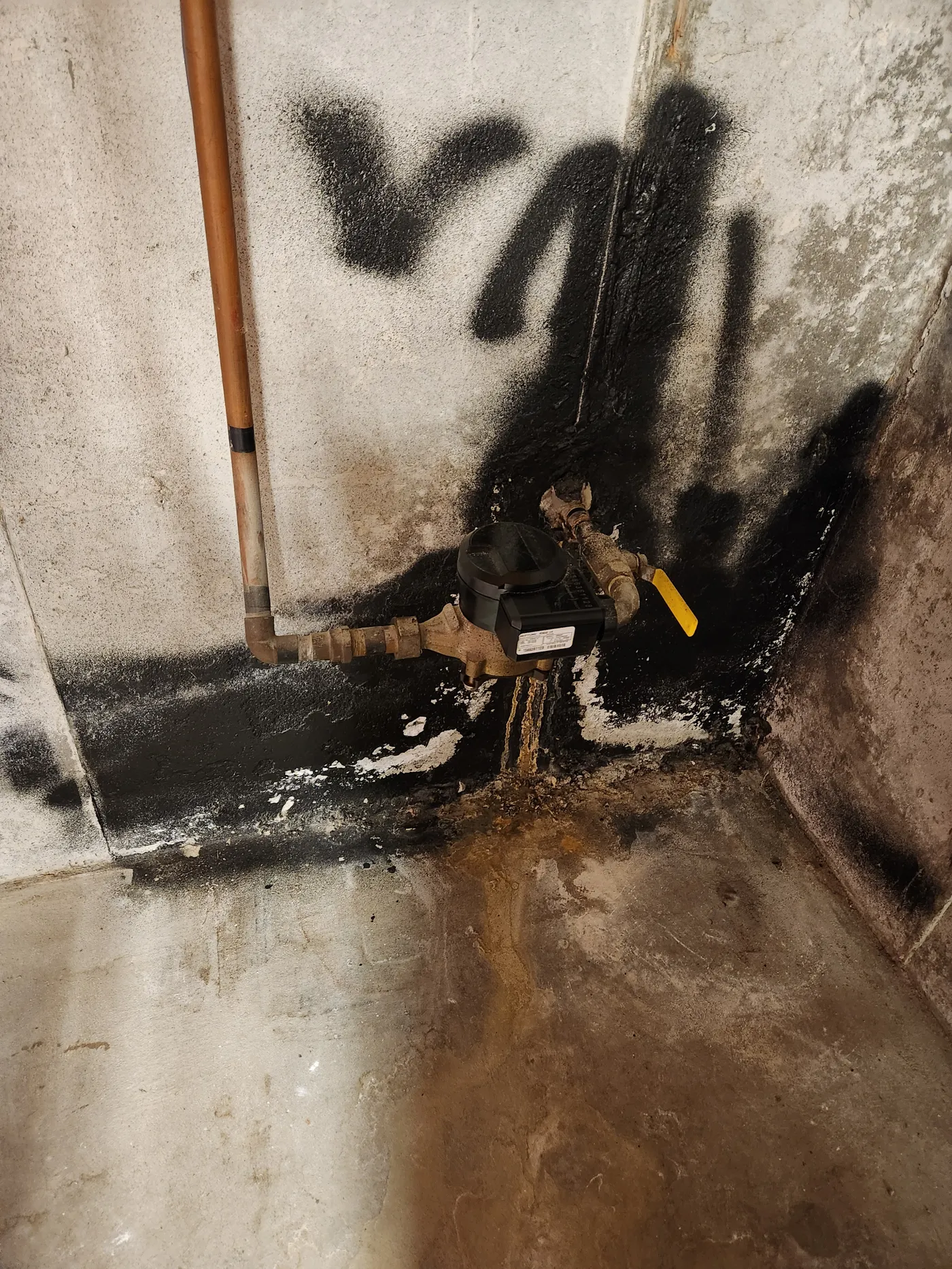
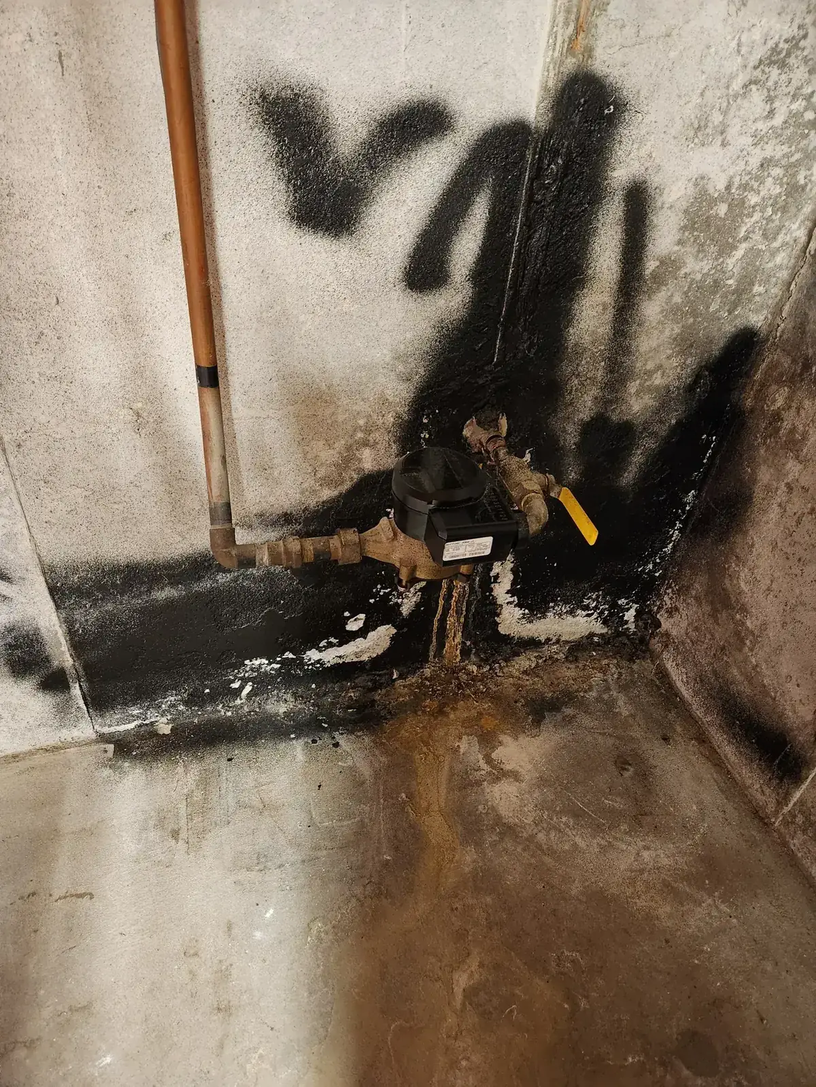
feat: Gemini SEO audit — E-E-A-T schema, HowTo for concrete repair, image squeeze
- Add founder, foundingDate, knowsAbout to base schema (Layout.astro)
- Add HowTo schema to concrete repair pages (mirror services pattern)
- Add steps frontmatter to all 6 concrete repair content files
- Fix HowTo name: "How X Works" instead of "How to X" in both templates
- Squeeze 12 oversized WebP images under 400KB (resize + recompress)
- Add "what we don't do" cross-links in about page and consultations
- Add 2 post-launch items to LAUNCH-PLAN.md (before/after verification, basement floor blog)

diff --git a/src/content/config.ts b/src/content/config.ts
@@ -48,6 +48,11 @@ const concreteRepairCollection = defineCollection({
       answer: z.string(),
     })).optional(),
     relatedServices: z.array(z.string()).optional(),
+    // HowTo schema support - optional repair steps
+    steps: z.array(z.object({
+      name: z.string(),
+      text: z.string(),
+    })).optional(),
   }),
 });
 

diff --git a/src/content/concrete-repair/basement-floor.md b/src/content/concrete-repair/basement-floor.md
@@ -13,6 +13,15 @@ faqs:
     answer: "Hardware store patching compounds sit on the surface and do not bond properly to the existing concrete. They crack and peel within months, especially if water pressure is pushing through from below. Professional repair involves grinding out the crack and filling it with self-leveling epoxy or commercial-grade rubber sealant for a permanent, flush finish."
   - question: "How much does basement floor crack repair cost?"
     answer: "Most basement floor crack repairs cost $500-$1,500 depending on length, number of cracks, and the repair method required. This is a permanent, one-time repair — far more cost-effective than repeated DIY patching or interior drainage systems."
+steps:
+  - name: "Crack Assessment"
+    text: "We evaluate each crack for width, depth, water infiltration, and displacement. We determine whether the crack is shrinkage, settlement, or water-pressure related."
+  - name: "Grinding & Preparation"
+    text: "Cracks are ground out with a diamond blade to create a clean channel that accepts the repair material. This removes loose concrete and ensures a solid bond."
+  - name: "Epoxy or Rubber Fill"
+    text: "The ground channel is filled with self-leveling epoxy for structural cracks or commercial-grade rubber sealant for expansion joints. Both create a permanent, flush finish."
+  - name: "Final Inspection"
+    text: "We verify that every crack is fully sealed, the surface is flush with the surrounding floor, and any water entry points are permanently closed."
 relatedServices:
   - "garage"
   - "driveway"

diff --git a/src/content/concrete-repair/patio.md b/src/content/concrete-repair/patio.md
@@ -13,6 +13,15 @@ faqs:
     answer: "Our repair systems are designed for New England's freeze-thaw cycles. Proper sealing protects against moisture penetration, and the overlay materials expand and contract with temperature changes."
   - question: "Can you match the color of my existing concrete?"
     answer: "We offer basic color matching to blend with your home's exterior and surrounding hardscape. The result is a clean, uniform surface rather than a patchwork appearance."
+steps:
+  - name: "Condition Assessment"
+    text: "We inspect the entire patio surface for cracks, spalling, staining, and structural issues. We identify root causes like tree roots or poor drainage before starting repairs."
+  - name: "Crack & Damage Repair"
+    text: "Cracks are cleaned and filled with epoxy resin or polymer-modified materials. Spalled areas are ground smooth and rebuilt to match the surrounding surface."
+  - name: "Surface Profiling"
+    text: "The patio surface is mechanically profiled to create an ideal bonding surface for the overlay system."
+  - name: "Overlay & Sealing"
+    text: "A durable polymer-modified overlay restores a clean, uniform surface. A protective sealer is applied to resist freeze-thaw damage and UV exposure."
 relatedServices:
   - "walkway-stairway"
   - "pool-deck"

diff --git a/src/content/concrete-repair/driveway.md b/src/content/concrete-repair/driveway.md
@@ -15,6 +15,15 @@ faqs:
     answer: "Foot traffic is typically allowed within 24 hours. Vehicle traffic should wait 3-5 days for full cure, depending on weather conditions."
   - question: "Do you repair asphalt driveways?"
     answer: "No — we work exclusively on concrete driveways. Asphalt (blacktop) requires a different repair process and different materials. If you're unsure whether your driveway is concrete or asphalt, send us a photo and we'll let you know."
+steps:
+  - name: "Surface Assessment"
+    text: "We evaluate every crack, stain, and damaged area on your driveway. We measure crack widths, check for structural settlement, and determine the best repair approach."
+  - name: "Crack Repair"
+    text: "All cracks are cleaned out and filled with epoxy resin or hybrid polyurethane, creating a permanent bond that moves with the concrete through freeze-thaw cycles."
+  - name: "Surface Preparation"
+    text: "The entire driveway surface is ground and profiled to create a clean bonding surface for the overlay material."
+  - name: "Overlay Application"
+    text: "A polymer-modified concrete overlay is applied to restore a smooth, uniform surface. The result looks like new concrete at a fraction of replacement cost."
 relatedServices:
   - "garage"
   - "walkway-stairway"

diff --git a/src/content/concrete-repair/walkway-stairway.md b/src/content/concrete-repair/walkway-stairway.md
@@ -15,6 +15,15 @@ faqs:
     answer: "No. We always apply non-slip additives to stair surfaces. Safety is the top priority, especially on outdoor stairs exposed to rain and snow."
   - question: "Can you repair very damaged concrete stairs?"
     answer: "Yes, in most cases. Our overlay system can address significant damage including cracks, spalling, and surface deterioration. If the structural integrity is compromised, we'll let you know and recommend alternatives."
+steps:
+  - name: "Assessment & Trip Hazard Check"
+    text: "We evaluate every crack, lip, and uneven section for trip hazards. Stairways get special attention for tread depth, rise uniformity, and structural integrity."
+  - name: "Crack & Edge Repair"
+    text: "Cracks are cleaned and filled with epoxy resin or polymer-modified materials. Broken stair edges and nosings are rebuilt to restore safe, uniform steps."
+  - name: "Surface Profiling"
+    text: "Walkway and stair surfaces are mechanically profiled to create an ideal bonding surface for the overlay."
+  - name: "Non-Slip Overlay"
+    text: "A durable overlay is applied with non-slip additives for safe footing in rain, snow, and ice. The result is a clean, uniform surface that eliminates trip hazards."
 relatedServices:
   - "driveway"
   - "patio"

diff --git a/src/content/concrete-repair/pool-deck.md b/src/content/concrete-repair/pool-deck.md
@@ -13,6 +13,15 @@ faqs:
     answer: "Our sealers are formulated to resist chlorine, salt, and other pool chemicals. The surface won't discolor or deteriorate from normal pool water exposure."
   - question: "Do I need to lower the pool water level?"
     answer: "No — there's no need to lower your pool water. Just stay off the deck during the repair and curing process."
+steps:
+  - name: "Safety & Condition Assessment"
+    text: "We inspect the pool deck for cracks, trip hazards, and surface deterioration. We check drainage patterns and identify areas where water pools near the pool edge."
+  - name: "Crack & Joint Repair"
+    text: "All cracks and expansion joints are cleaned and filled with flexible sealants that accommodate the concrete's movement through temperature changes."
+  - name: "Surface Preparation"
+    text: "The deck surface is ground and profiled to ensure proper adhesion of the cool-touch overlay system."
+  - name: "Cool-Touch Overlay & Slip-Resistant Finish"
+    text: "A cool-touch overlay is applied to reduce surface temperature, followed by a slip-resistant texture for safety around the pool. The result is comfortable for bare feet and safe when wet."
 relatedServices:
   - "patio"
   - "walkway-stairway"

diff --git a/src/content/concrete-repair/garage.md b/src/content/concrete-repair/garage.md
@@ -13,6 +13,15 @@ faqs:
     answer: "Yes. Our topcoats are formulated to resist hot tire marks, a common problem with cheaper garage floor systems."
   - question: "Can you work around items in my garage?"
     answer: "We need the floor completely clear for the repair. Most clients temporarily relocate vehicles and items for the day."
+steps:
+  - name: "Floor Assessment"
+    text: "We evaluate cracks, pitting, spalling, and surface damage across the entire garage floor. We check for moisture issues and identify areas where previous patches have failed."
+  - name: "Crack & Pit Repair"
+    text: "All cracks are ground out and filled with epoxy resin or hybrid polyurethane. Pits and spalled areas are rebuilt to create a level surface."
+  - name: "Diamond Grinding"
+    text: "The entire floor is diamond-ground to remove contaminants and create an ideal bonding profile for the overlay system."
+  - name: "Overlay & Topcoat"
+    text: "A polymer-modified overlay restores a smooth, durable surface. A hot-tire-resistant topcoat is applied for long-lasting protection against chemicals, salt, and daily garage use."
 relatedServices:
   - "driveway"
   - "patio"

diff --git a/docs/LAUNCH-PLAN.md b/docs/LAUNCH-PLAN.md
@@ -219,6 +219,8 @@ First 90 days after DNS cutover. Full strategy in `docs/SEO-STRATEGY-2026.md` (P
 - [ ] **Brand voice review** — archived to `docs/archive/BRAND-VOICE.md`, revisit post-launch
 - [ ] **Marketing plan review** — `docs/MARKETING-PLAN-2026.md` (social cadence, ad budget, email platform, geo-targeting, AI video)
 - [ ] **Brainstorm session** — 38 technical questions in `docs/BRAINSTORM-AGENDA.md` (injection PSI, carbon fiber specs, job stories, etc.)
+- [ ] **Before/after photo verification** — Review project photos and flip `beforeAfterVerified: true` on verified pairs (enables paired ImageObject schema in `projects/[slug].astro`). Also source real before/after hero images for each service page as a trust signal.
+- [ ] **Basement floor multi-state blog post** — Write a blog post targeting "basement floor crack repair" for all 5 states, linking to `/concrete-repair/basement-floor` for MA homeowners. Floor crack repair technique (grinding + epoxy fill) differs from wall injection — better as educational content than reclassifying as a foundation service.
 
 ### Ongoing
 

diff --git a/src/content/services/free-foundation-consultations.md b/src/content/services/free-foundation-consultations.md
@@ -101,7 +101,7 @@ If a home inspection flagged foundation issues, we provide free foundation asses
 
 - If a crack is cosmetic and doesn't need repair
 - If something is a simple fix and what to tell a handyman
-- If another company might serve you better for a specific issue
+- If [another company might serve you better](/what-we-dont-do) for a specific issue
 - The honest timeline for how urgent repairs are
 - When monitoring is appropriate vs. immediate action
 
